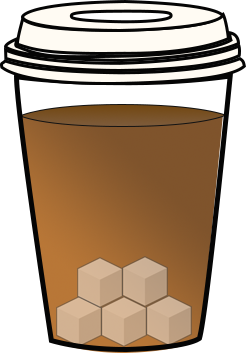
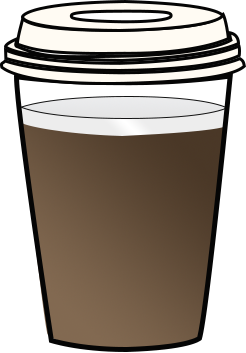
Mise A Jour 13.12.17

diff --git a/index.html b/index.html
@@ -13,7 +13,7 @@
 </head>
 
 <body>
- <div class="col-md-8 col-md-offset-2 container-fluid text-center">
+ <div class="col-xs-8 col-xs-offset-2 container-fluid text-center">
     <div class="container-fluid bg-1 text-center tis_container-fluid">
             <h1>Machine à Café Virtuelle</h1>
             <p id="tagline" ></p>
@@ -30,7 +30,7 @@
                     <img id="sucre4" class="img-responsive sucres" src="images/monSucre.png"/>                
                     <img id="sucre5" class="img-responsive sucres" src="images/monSucre.png"/>                
                 </div>
-                <div class="col-md-4">
+                <div class="col-xl-4">
                     <div id="monnayeur"><h3><strong>0</strong> Credits</h3></div>
                     <button id="renduMonnaie">Rendu Monnaie</button>
                 </div>
@@ -42,10 +42,11 @@
     <div class="container text-left tis_Container">    
         <div class="row">
             <div class="col-md-4">
-                <div id="Capuchino" class="choix"><h3>Capuchino</h3></div>
+                <div id="Expresso" class="choix"><h3>Double Expresso</h3></div>
+                <div id="Capuchino" class="choix"><h3>Cappuccino</h3></div>
                 <div id="Chocolat" class="choix"><h3>Chocolat Intense</h3></div>
                 <div id="Thé" class="choix"><h3>Thé</h3></div>
-                <div id="Expresso" class="choix"><h3>Double Expresso</h3></div>
+                <button id="valid">valider</button>
             </div>
         </div>
     </div>
@@ -55,13 +56,20 @@
     <!-- maBoissons -->      
     <div class="container text-left tis_Container">    
             <div class="row">
-                <div id="maBoisson" class="col-md-4 col-md-push-9 fixed-bottom">
-                    <img id="imgBoissonCapuchino" class="imgBoisson" src="images/monCapuchino.png"/>
-                    <img id="imgBoissonChocolat" class="imgBoisson" src="images/monChocolat.png"/>
-                    <img id="imgBoissonThé" class="imgBoisson" src="images/monThé.png"/>
-                    <img id="imgBoissonExpresso" class="imgBoisson" src="images/monExpresso.png"/>
-                    <img id="imgGobelet" class="imgBoisson" src="images/Gobelet.png"/>
+                <div id="monGobelet" class="col-sm-4 col-sm-push-6 fixed-bottom">
+                    <img id="imgGobelet" class="imgBoisson" src="images/Gobelet.png"/>   
+                </div>                     
+                <div id="maBoisson" class="col-xs-4 col-sm-push-6 fixed-bottom">
+                    <img id="imgBoissonCapuchino" class="imgBoisson" src="images/cappuccino.png"/>
+                    <img id="imgBoissonChocolat" class="imgBoisson" src="images/chocolat.png"/>
+                    <img id="imgBoissonThe" class="imgBoisson" src="images/the.png"/>
+                    <img id="imgBoissonExpresso" class="imgBoisson" src="images/doubleExpresso.png"/>
                 </div>
+                <div id="zoneSucres" class="col-xs-2 col-sm-push-8 fixed-bottom">                                      
+                </div>  
+                <div id="zoneTouillette" class="col-xs-2 col-sm-push-8 fixed-bottom">                                      
+                        <img id="imgTouillette" class="imgBoisson" src="images/touillette.png"/>
+                    </div>    
             </div>
         </div>
     <!-- End maBoissons -->

diff --git a/script.js b/script.js
@@ -1,34 +1,65 @@
 console.log("exercice 3");
 $(document).ready(function() {
     var sucre = 0;
+    var boissonSelected = "";
     var typePieces = [200 , 100 , 50 , 20 , 10 , 5] ; 
     var pieces = [0, 0, 0, 0, 0, 0] ;
 
 //_____________________________________GESTION Boissons
+$( "#maBoisson" ).click(function() { 
+    resetDrink();    
+});
+   
 $( ".choix" ).click(function() {    
-    let monId = $( this ).attr( 'id' ); 
+    boissonSelected = $( this ).attr( 'id' ); 
     let selected = $( ".choix" ).hasClass( "selected" ); 
-    selectDrink(selected, monId);
+    selectDrink(selected, boissonSelected);
+}); 
+
+$( "#valid" ).click(function() { 
+    let monSucre = sucre;  
+    prepare(monSucre);
 });
 
 function selectDrink(doSelect, drink){
     if($('#' + drink).hasClass("selected") || drink === "reset")//SI la boisson a deja la classe "selected"
     {
         $('.choix').removeClass("selected");     //Enlever les choix "selected"     
-        //$('.imgBoisson').removeClass("visible"); //Enlever les boisson associée "visible" 
-        //$('#imgGobelet').addClass("visible"); //Remettre GOBELET Vide "visible" 
         
     }else{//----------------------------------------------//SINON
-        //$('#imgGobelet').removeClass("visible"); //Enlever GOBELET Vide "visible"          
         $('#' + drink).addClass("selected");          //Rendre le choix "selected"    
-        //$('#imgBoisson' + drink).addClass("visible"); //Rendre la boisson associée "visible"
         $('.choix').not('#' + drink).removeClass("selected");//Enleve toutes les class 'selected, sauf element cliquée            
-        //$('.imgBoisson').not('#imgBoisson' + drink).removeClass("visible"); // /Enleve toutes les class 'selected, sauf element cliquée              
     }
 }
 
 function resetDrink(){
-    selectDrink(true, "reset");
+    let mesSucres = "";
+    $("#zoneSucres").html(mesSucres);    
+    $('#imgGobelet').removeClass("visible"); //Enlever GOBELET Vide "visible"          
+    $('.imgBoisson').removeClass("visible"); //Rendre la boisson associée "visible"
+    $('.choix').removeClass("selected");     //Enlever les choix "selected"         
+}
+
+function prepare(nbSugar){
+    let mesSucres = "";
+    if($('.choix').hasClass("selected")){
+        if(nbSugar>0){
+            for(i = 0; i < nbSugar ; i++)
+            {
+                mesSucres += "<img class='img-responsive sucres sucresBoisson' src='images/monSucre.png'/>";
+                $("#zoneSucres").html(mesSucres);
+            }
+        }else{
+            $("#zoneSucres").html(mesSucres);
+        }
+        $('#imgGobelet').removeClass("visible"); //Enlever GOBELET Vide "visible"          
+        $('#imgBoisson' + boissonSelected).addClass("visible"); //Rendre la boisson associée "visible"
+        $('.imgBoisson').not('#imgBoisson' + boissonSelected).removeClass("visible"); // /Enleve toutes les class 'selected, sauf element cliquée              
+    
+    }else{
+        $("#zoneSucres").html(mesSucres);        
+    }
+
 }
 //_____________________________________END GESTION Boissons
 
@@ -56,7 +87,6 @@ function addSugar(nb){
             myImage = "images/monSucre.png";            //Remplace le contenu de myImage par monSucre.png (sucre non selectionné)
         }
       });
-    console.log(nb);
 }
 //_____________________________________END GESTION SUCRE
 

diff --git a/design.css b/design.css
@@ -27,11 +27,21 @@ footer {
   bottom: 0;
   right: 0;
 }
-
 #maBoisson img {
     vertical-align:bottom;
     border:0;
 }
+
+#monGobelet{
+    position: absolute;
+    bottom: 0;
+    right: 0;
+}
+#monGobelet img {
+    vertical-align:bottom;
+    border:0;
+}
+
 
 .choix{
     background-color: #2a7ad6;
@@ -66,11 +76,12 @@ h3{
 }
 
 .imgBoisson{
-    display:none;    
+    display:none;
+    position: absolute;
+    bottom: 0;
+    right: 0;
 }
-#imgBoissonGobelet{
-    display:block;    
-}
+
 
 .visible{
     display:block;    
@@ -79,6 +90,20 @@ h3{
 .sucres{
     float: left;
     cursor: pointer;    
+}
+
+
+#zoneSucres{
+    width: 15%;
+    position: absolute;
+    bottom: 10%;
+    right: 4%;
+    margin-bottom: 1%;
+    opacity: 0.8;
+}
+.sucresBoisson{
+    width: 30%;
+    float: left;
 }
 
 .pieces{
